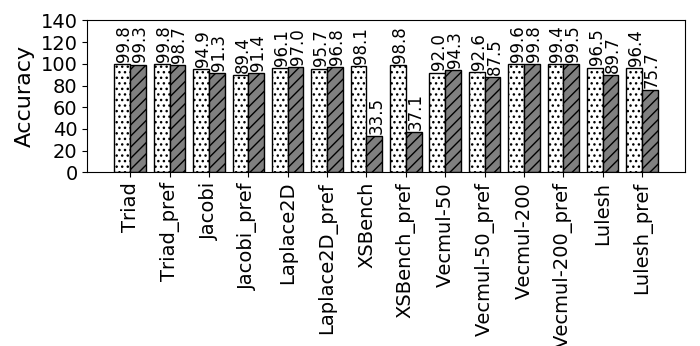
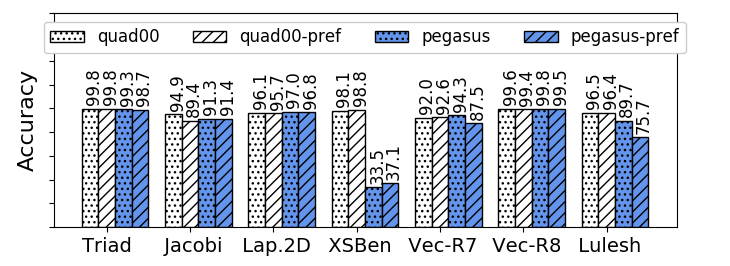
added new graphs

diff --git a/graphs/ics21/different_cache_sizes_old.py b/graphs/ics21/different_cache_sizes_old.py
@@ -22,7 +22,7 @@ def autolabel(rects, xpos='center'):
 
     for rect in rects:
         height = rect.get_height()
-        ax.text(rect.get_x() + rect.get_width()*offset[xpos] + 0.05, height + 3,
+        ax.text(rect.get_x() + rect.get_width()*offset[xpos] + 0.05, height + 2,
                 '{}'.format(height), ha=ha[xpos], va='bottom', fontsize=12, rotation=90)
 
 
@@ -35,7 +35,7 @@ def average(lst):
 #plt.rcdefaults()
 fig, ax = plt.subplots()
 
-fig.set_size_inches(7.3, 3)
+fig.set_size_inches(7, 3.8)
 
 
 
@@ -49,22 +49,17 @@ fig.set_size_inches(7.3, 3)
 #Here lit means the corrected results
 #
 #
-#stride=['Triad',' Jacobi',' Laplace',' XSBench',' Vecmul-50',' Vecmul-200',' Lulesh']
-stride=['Triad',' Jacobi',' Lap.2D',' XSBen',' Vec-R7',' Vec-R8',' Lulesh']
 
+stride=['Triad','Triad_pref','Jacobi','Jacobi_pref','Laplace2D','Laplace2D_pref','XSBench','XSBench_pref','Vecmul-50','Vecmul-50_pref','Vecmul-200','Vecmul-200_pref','Lulesh','Lulesh_pref']
 
-mapr=[99.7558734737882, 94.9155196559211, 96.1113866399604, 98.0897308123935, 92.0483227565915, 99.6338952518969, 96.5219302247222]
-lit=[99.8025625864864, 89.4058258147325, 95.7114967073513, 98.7615042635082, 92.5631240329666, 99.4385698347132, 96.4017533263233]
-mapr1=[99.3335275525142, 91.3320038093616, 96.9541631237439, 33.4890681864052, 94.2660012191825, 99.7890957461405, 89.6807058649443]
-lit1=[98.7160394373814, 91.4314912443907, 96.7726119453631, 37.0508250107731, 87.4801732943462, 99.4886779397288, 75.6954577850443]
+mapr=[99.75587347,99.80256259,94.91551966,89.40582581,96.11138664,95.71149671,98.08973081,98.76150426,92.04832276,92.56312403,99.63389525,99.43856983,96.52193022,96.40175333]
+lit=[99.33352755,98.71603944,91.33200381,91.43149124,96.95416312,96.77261195,33.48906819,37.05082501,94.26600122,87.48017329,99.78909575,99.48867794,89.68070586,75.69545779]
+
 
 #lit=[73.9970265429505, 74.7593436919083, 75.1830948946589, 74.8519219398648, 75.8097941563951, 76.5623778192054, 75.8026714559401, 75.2564136525971]
 
 mapr=np.round(mapr, 1)
 lit=np.round(lit, 1)
-mapr1=np.round(mapr1, 1)
-lit1=np.round(lit1, 1)
-
 
 #total=[8388608, 8388608, 9441832, 9310190, 8837973, 9382619, 9266269, 9326488]
 #total = np.array(total) / 1000000
@@ -107,7 +102,7 @@ print("On the other hand, the model from literature provided {:.1f}".format(aver
 #print("Broadwell showed {:.1f}".format((100-average(bwell)))+"\% accuracy, Sky Lake showed {:.1f}".format((100-average(slake)))+"\% accuracy, and Cascade Lake showed {:.1f}".format((100-average(slake)))+"\% accuracy")
 
 
-barwidth=.25
+barwidth=.4
 # Set position of bar on X axis
 #r1 = np.arange(len(bwell))
 #r2 = [x + barwidth for x in r1]
@@ -116,23 +111,19 @@ barwidth=.25
 
 x_pos = np.arange(len(stride))  # the label locations
 barwidth1=.25
-barwidth=.20
+#barwidth=.15
 # Set position of bar on X axis
 r1 = np.arange(len(stride))
 r2 = [x + barwidth for x in r1]
-r3 = [x + barwidth for x in r2]
-r4 = [x + barwidth for x in r3]
 
 
 #ax.barh(x_pos, read, hatch='....', color='white', edgecolor='black')
 #rects1 = plt.bar(x, traffic, .8, hatch='....', color='white', edgecolor='black')
 rects1=ax.bar(r1, mapr, width=barwidth, hatch='...', color='white', edgecolor='black', label="quad00")
-rects2=ax.bar(r2, lit, width=barwidth, hatch='///', color='white', edgecolor='black', label="quad00-pref")
-rects3=ax.bar(r3, mapr1, width=barwidth, hatch='...', color='cornflowerblue', edgecolor='black', label="pegasus")
-rects4=ax.bar(r4, lit1, width=barwidth, hatch='///', color='cornflowerblue', edgecolor='black', label="pegasus-pref")
+rects2=ax.bar(r2, lit, width=barwidth, hatch='///', color='grey', edgecolor='black', label="pegasus")
 #rects2=ax.bar(r2, lit, width=barwidth, hatch='///', color='cornflowerblue', edgecolor='black', label="MAPredict_Corrected")
 
-plt.legend(loc="upper center", handlelength=2, fontsize=12, ncol=4, framealpha=1)
+#plt.legend(handlelength=3, fontsize=12)
 
 #plt.legend(loc="upper right", fontsize=12)
 
@@ -140,10 +131,7 @@ plt.legend(loc="upper center", handlelength=2, fontsize=12, ncol=4, framealpha=1
 ax.set_ylabel('Accuracy', fontsize=16)
 #ax.set_xlabel('Stride', fontsize=16)
 
-plt.yticks(np.arange(0, max(mapr)+90, 20), color="white")
-
-ax.set_yticklabels([])
-
+plt.yticks(np.arange(0, max(mapr)+50, 20))
 
 #plt.title('', fontsize=18)
 #ax.set_xticks(x_pos)
@@ -152,8 +140,8 @@ plt.yticks(fontsize=14)
 #plt.yticks(np.arange(0, 100, 10), fontsize=14)
 #ax.get_yaxis().get_major_formatter().set_scientific(False)
 
-plt.xticks([r + barwidth for r in range(len(mapr))], stride, fontsize=14, rotation=0)
-#plt.xticks([r + barwidth for r in range(len(mapr))], stride, fontsize=14, rotation=90)
+#plt.xticks([ + barwidth for r in range(len(stride))], stride, fontsize=12, rotation=90)
+plt.xticks([r + barwidth/2 for r in range(len(mapr))], stride, fontsize=14, rotation=90)
 
 #plt.xticks(rotation=45, fontsize=14)
 
@@ -161,8 +149,6 @@ plt.xticks([r + barwidth for r in range(len(mapr))], stride, fontsize=14, rotati
 
 autolabel(rects1, "center")
 autolabel(rects2, "center")
-autolabel(rects3, "center")
-autolabel(rects4, "center")
 
 
 

diff --git a/graphs/ics21/omp.py b/graphs/ics21/omp.py
@@ -1,0 +1,90 @@
+import random
+import matplotlib
+import matplotlib.pyplot as plt
+from matplotlib import style
+
+import numpy as np
+import matplotlib.patches as mpatches
+
+#plt.rcdefaults()
+fig, ax = plt.subplots()
+
+fig.set_size_inches(7, 3.5)
+
+
+#stride = ['stride-1', 'stride-2', 'stride-4', 'stride-8', 'stride-16', 'stride-32', 'stride-64', 'stride-128', 'stride-256', 'stride-512', 'stride-1024', 'stride-2048', 'stride-4096', 'stride-8192']
+#stride = ['1', '2', '4', '8', '16', '32', '64', '128', '256', '512', '1024', '2048', '4096', '8192']
+#stride = ['1', '2', '4', '8', '16', '32', '64', '128', '256', '512', '1024', '2048', '4096', '8192']
+
+stride=["Stream", "Jacobi","Laplace", "XSBench", "Vecmul-50", "Vecmul-200"]
+#gcc=[25338856, 9441832, 6860474, 426155, 10896302, 2338203]
+#gccp=[25080477, 9310190, 6775994, 472839, 16974365, 2346605]
+#omp=[25046979, 9272076, 6603716, 665453, 11066649, 2504817]
+#ompp=[25033750, 9145806, 6597481, 879404, 19813172, 2529047]
+
+gcc=[25338856, 9441832, 6860474, 4261550, 10896302, 2338203]
+gccp=[25080477, 9310190, 6775994, 4728390, 16974365, 2346605]
+omp=[25046979, 9272076, 6603716, 6654530, 11066649, 2504817]
+ompp=[25033750, 9145806, 6597481, 8794040, 19813172, 2529047]
+
+
+#bwell=[3.54690440734318, 3.13407754775781, 3.01531589890099, 2.98962687482247, 2.99217907426445, 3.83323579642171, 6.0207244000754, 3.74593114800149, 3.90623462499754, 5.27340671385718, 4.88429059812411, 9.92533458774915, 12.9654468646394, 15.7118505092353]
+#slake=[0.184212033008842, 0.174271763326455, 0.202333780400265, 0.227083158730729, 0.146058357519289, 11.0937423980139, 21.1548362684466, 16.4979702994637, 0.341867258556249, 0.428999663529676, 0.949615842990085, 2.37499000319898, 3.74332209671378, 6.20798117556665]
+
+def average(lst):
+    return sum(lst) / len(lst)
+
+#print("accurcy")
+#print("Broadwell showed {:.1f}".format((100-average(bwell)))+"\% accuracy, Sky Lake showed {:.1f}".format((100-average(slake)))+"\% accuracy, and Cascade Lake showed {:.1f}".format((100-average(slake)))+"\% accuracy")
+
+
+
+barwidth1=.25
+barwidth=.15
+# Set position of bar on X axis
+r1 = np.arange(len(gcc))
+r2 = [x + barwidth for x in r1]
+r3 = [x + barwidth for x in r2]
+r4 = [x + barwidth for x in r3]
+#r3 = [x + barwidth for x in r2]
+
+
+x_pos = np.arange(len(stride))  # the label locations
+#ax.barh(x_pos, read, hatch='....', color='white', edgecolor='black')
+#rects1 = plt.bar(x, traffic, .8, hatch='....', color='white', edgecolor='black')
+plt.bar(r1, gcc, width=barwidth, hatch='....', color='white', edgecolor='black', label='Sequential')
+plt.bar(r2, omp, width=barwidth, hatch='////', color='white', edgecolor='black', label='Multi-threaded')
+plt.bar(r3, gccp, width=barwidth, hatch='....', color='grey', edgecolor='black', label='Sequential and prefetching')
+plt.bar(r4, ompp, width=barwidth, hatch='////', color='grey', edgecolor='black', label='Multi-threaded and prefetching')
+#
+
+#plt.bar(r3, clake, width=barwidth, hatch='oo', color='white', edgecolor='black', label='Cascade Lake')
+
+#plt.legend(handlelength=3, fontsize=12)
+
+plt.legend(loc="upper center", fontsize=10)
+
+
+ax.set_ylabel('Total traffic', fontsize=16)
+#ax.set_xlabel('application', fontsize=16)
+
+
+#plt.title('', fontsize=18)
+#ax.set_xticks(x_pos)
+
+plt.yticks(fontsize=14)
+#plt.yticks(np.arange(0, 100, 10), fontsize=14)
+#ax.get_yaxis().get_major_formatter().set_scientific(False)
+
+plt.xticks([r + barwidth for r in range(len(gcc))], stride, fontsize=12, rotation=90)
+
+#plt.xticks(rotation=90, fontsize=14)
+#ax.set_xticklabels(stride, fontsize=12)
+
+#ax.invert_yaxis()
+plt.tight_layout()
+
+plt.show()
+fig.savefig('omp.png', dpi=100)
+
+# Example data

diff --git a/graphs/ics21/various_data_sizes.py b/graphs/ics21/various_data_sizes.py
@@ -42,18 +42,15 @@ fig.set_size_inches(10, 3.5)
 
 #stride = ['stride-1', 'stride-2', 'stride-4', 'stride-8', 'stride-16', 'stride-32', 'stride-64', 'stride-128', 'stride-256', 'stride-512', 'stride-1024', 'stride-2048', 'stride-4096', 'stride-8192']
 #stride = ['MAPInt', 'literature', 'BW_no_pref', 'BW_pref', 'SL_no_pref', 'SL_pref', 'CL_no_pref', 'CL_pref']
-stride = ['BW', 'BW_Pref', 'SK', 'SK_pref', 'CS', 'CS_pref', 'CP', 'CP_pref']
 #stride = ['BW_no_pref', 'BW_Pref', 'SK_no_pref', 'SK_pref', 'CS_no_pref', 'CS_pref', 'CP_no_pref', 'CP_pref']
 #mapr=[61.8882181293871, 75.5241712230356, 89.8250019597557, 51.0717951637018, 68.2220805147098, 53.8617689849731, 62.8099049619462, 46.1993693797708]
-mapr=[95.3101043330511, 78.7016557954816, 71.6890368938188, 79.4437128944134, 71.6890368938188, 79.4437128944134, 32.1122980870215, 24.5260870712568]
 
 #Here lit means the corrected results
 #
 #
-lit=[94.7103434724552, 94.6297431281576, 98.0897308123935, 98.7615042635082, 98.177610635759, 97.0360885136902, 95.6535956134869, 99.9241483420006]
-stride=['Triad_50','Triad_100','Triad_150','jacobi_4096','jacobi_8192','jacobi_16384','laplace_4096','laplace_8000','laplace_10000','xsbench_small','xsbench_big','Vecmul_R7_50','Vecmul_R7_100','Vecmul_R7_200','Vecmul_R8_50','Vecmul_R8_100','Vecmul_R8_200','lulesh_250','lulesh_300','lulesh_400','xsbench_big']
-mapr=[98.92977139,99.16870648,99.61383181,81.5824526,81.93283401,81.43143327,94.72154897,99.41113128,99.844747,61.00901062,91.89561288,92.56801122,92.50984711,92.48666559,98.7364694,99.13273725,98.96556246,91.79902957,95.03203251,92.76574126,91.89561288]
-lit=[99.65811513,99.30578589,99.7241934,87.88307244,88.97635499,88.65746754,96.02402148,99.6129656,99.70779706,68.91097887,96.5624612,90.94570885,90.44556598,91.0081077,98.7356895,99.05069811,98.89485005,91.25606924,89.05478423,92.59669006,96.5624612]
+stride=['Triad_50','Triad_100','Triad_150','jacobi_4096','jacobi_8192','jacobi_16384','laplace_4096','laplace_8000','laplace_10000','xsbench_small','xsbench_big','Vecm_R7_50','Vecm_R7_100','Vecm_R7_200','Vecm_R8_50','Vecm_R8_100','Vecm_R8_200','lulesh_250','lulesh_300','lulesh_400']
+mapr=[98.92977139,99.16870648,99.61383181,81.5824526,81.93283401,81.43143327,94.72154897,99.41113128,99.844747,61.00901062,91.89561288,92.56801122,92.50984711,92.48666559,98.7364694,99.13273725,98.96556246,91.79902957,95.03203251,92.76574126]
+lit=[99.65811513,99.30578589,99.7241934,87.88307244,88.97635499,88.65746754,96.02402148,99.6129656,99.70779706,68.91097887,96.5624612,90.94570885,90.44556598,91.0081077,98.7356895,99.05069811,98.89485005,91.25606924,89.05478423,92.59669006]
 
 #lit=[73.9970265429505, 74.7593436919083, 75.1830948946589, 74.8519219398648, 75.8097941563951, 76.5623778192054, 75.8026714559401, 75.2564136525971]
 
@@ -118,7 +115,7 @@ r2 = [x + barwidth for x in r1]
 
 #ax.barh(x_pos, read, hatch='....', color='white', edgecolor='black')
 #rects1 = plt.bar(x, traffic, .8, hatch='....', color='white', edgecolor='black')
-rects1=ax.bar(r1, mapr, width=barwidth, hatch='...', color='khaki', edgecolor='black', label="Prefetching")
+rects1=ax.bar(r1, mapr, width=barwidth, hatch='...', color='white', edgecolor='black', label="Prefetching")
 rects2=ax.bar(r2, lit, width=barwidth, hatch='///', color='cornflowerblue', edgecolor='black', label="no_prefetching")
 #rects2=ax.bar(r2, lit, width=barwidth, hatch='///', color='cornflowerblue', edgecolor='black', label="MAPredict_Corrected")
 

diff --git a/graphs/ics21/intel-expr.py b/graphs/ics21/intel-expr.py
@@ -35,7 +35,7 @@ def average(lst):
 #plt.rcdefaults()
 fig, ax = plt.subplots()
 
-fig.set_size_inches(7.3, 3)
+fig.set_size_inches(7, 3)
 
 
 
@@ -49,14 +49,14 @@ fig.set_size_inches(7.3, 3)
 #Here lit means the corrected results
 #
 #
-#stride=['Triad',' Jacobi',' Laplace',' XSBench',' Vecmul-50',' Vecmul-200',' Lulesh']
 stride=['Triad',' Jacobi',' Lap.2D',' XSBen',' Vec-R7',' Vec-R8',' Lulesh']
+#stride=['Triad',' Jacobi',' Laplace2D',' XSBench',' Vecmul-50',' Vecmul-200',' Lulesh']
 
+mapr=[98.6627020572673, 88.8451309025621, 91.6610718151545, 94.0322768608824, 94.1483450073245, 85.5357725569594, 95.8872886618785]
+lit=[99.6791249225443, 90.1013620559838, 92.8038602159329, 90.8235330585984, 92.4337493626419, 85.2295124232668, 96.3028474333542]
+mapr1=[93.3486614324703, 88.8527910867239, 92.0371100004625, 89.4489162788748, 94.1012179777594, 85.6369310978098, 94.7576162632665]
+lit1=[93.3627825276059, 90.0054323375693, 93.6543101064076, 94.6334787614222, 91.6308362931736, 85.6235858729646, 95.8942052397938]
 
-mapr=[99.7558734737882, 94.9155196559211, 96.1113866399604, 98.0897308123935, 92.0483227565915, 99.6338952518969, 96.5219302247222]
-lit=[99.8025625864864, 89.4058258147325, 95.7114967073513, 98.7615042635082, 92.5631240329666, 99.4385698347132, 96.4017533263233]
-mapr1=[99.3335275525142, 91.3320038093616, 96.9541631237439, 33.4890681864052, 94.2660012191825, 99.7890957461405, 89.6807058649443]
-lit1=[98.7160394373814, 91.4314912443907, 96.7726119453631, 37.0508250107731, 87.4801732943462, 99.4886779397288, 75.6954577850443]
 
 #lit=[73.9970265429505, 74.7593436919083, 75.1830948946589, 74.8519219398648, 75.8097941563951, 76.5623778192054, 75.8026714559401, 75.2564136525971]
 
@@ -126,10 +126,10 @@ r4 = [x + barwidth for x in r3]
 
 #ax.barh(x_pos, read, hatch='....', color='white', edgecolor='black')
 #rects1 = plt.bar(x, traffic, .8, hatch='....', color='white', edgecolor='black')
-rects1=ax.bar(r1, mapr, width=barwidth, hatch='...', color='white', edgecolor='black', label="quad00")
-rects2=ax.bar(r2, lit, width=barwidth, hatch='///', color='white', edgecolor='black', label="quad00-pref")
-rects3=ax.bar(r3, mapr1, width=barwidth, hatch='...', color='cornflowerblue', edgecolor='black', label="pegasus")
-rects4=ax.bar(r4, lit1, width=barwidth, hatch='///', color='cornflowerblue', edgecolor='black', label="pegasus-pref")
+rects1=ax.bar(r1, mapr, width=barwidth, hatch='...', color='white', edgecolor='black', label="GCC")
+rects2=ax.bar(r2, lit, width=barwidth, hatch='///', color='white', edgecolor='black', label="GCC-pref")
+rects3=ax.bar(r3, mapr1, width=barwidth, hatch='...', color='cornflowerblue', edgecolor='black', label="ICC")
+rects4=ax.bar(r4, lit1, width=barwidth, hatch='///', color='cornflowerblue', edgecolor='black', label="ICC-pref")
 #rects2=ax.bar(r2, lit, width=barwidth, hatch='///', color='cornflowerblue', edgecolor='black', label="MAPredict_Corrected")
 
 plt.legend(loc="upper center", handlelength=2, fontsize=12, ncol=4, framealpha=1)
@@ -170,6 +170,6 @@ autolabel(rects4, "center")
 plt.tight_layout()
 
 plt.show()
-fig.savefig('different_cache_sizes.png', dpi=100)
+fig.savefig('intel.png', dpi=100)
 
 # Example data

diff --git a/graphs/ics21/openmp_expr.py b/graphs/ics21/openmp_expr.py
@@ -35,7 +35,7 @@ def average(lst):
 #plt.rcdefaults()
 fig, ax = plt.subplots()
 
-fig.set_size_inches(7, 3.8)
+fig.set_size_inches(7, 3)
 
 
 
@@ -49,7 +49,9 @@ fig.set_size_inches(7, 3.8)
 #Here lit means the corrected results
 #
 #
-stride=['Triad',' Jacobi',' Laplace',' XSBench',' Vecmul-50',' Vecmul-200',' Lulesh']
+#stride=['Triad',' Jacobi',' Laplace',' XSBench',' Vecmul-50',' Vecmul-200',' Lulesh']
+stride=['Triad',' Jacobi',' Lap.2D',' XSBen',' Vec-R7',' Vec-R8',' Lulesh']
+
 
 mapr=[98.6627020572673, 88.8451309025621, 91.6610718151545, 94.0322768608824, 94.1483450073245, 85.5357725569594, 95.8872886618785]
 lit=[99.6791249225443, 90.1013620559838, 92.8038602159329, 90.8235330585984, 92.4337493626419, 85.2295124232668, 96.3028474333542]
@@ -152,8 +154,8 @@ plt.yticks(fontsize=14)
 #plt.yticks(np.arange(0, 100, 10), fontsize=14)
 #ax.get_yaxis().get_major_formatter().set_scientific(False)
 
-#plt.xticks([ + barwidth for r in range(len(stride))], stride, fontsize=12, rotation=90)
-plt.xticks([r + barwidth for r in range(len(mapr))], stride, fontsize=14, rotation=90)
+plt.xticks([r + barwidth for r in range(len(mapr))], stride, fontsize=14, rotation=0)
+#plt.xticks([r + barwidth for r in range(len(mapr))], stride, fontsize=14, rotation=90)
 
 #plt.xticks(rotation=45, fontsize=14)
 
